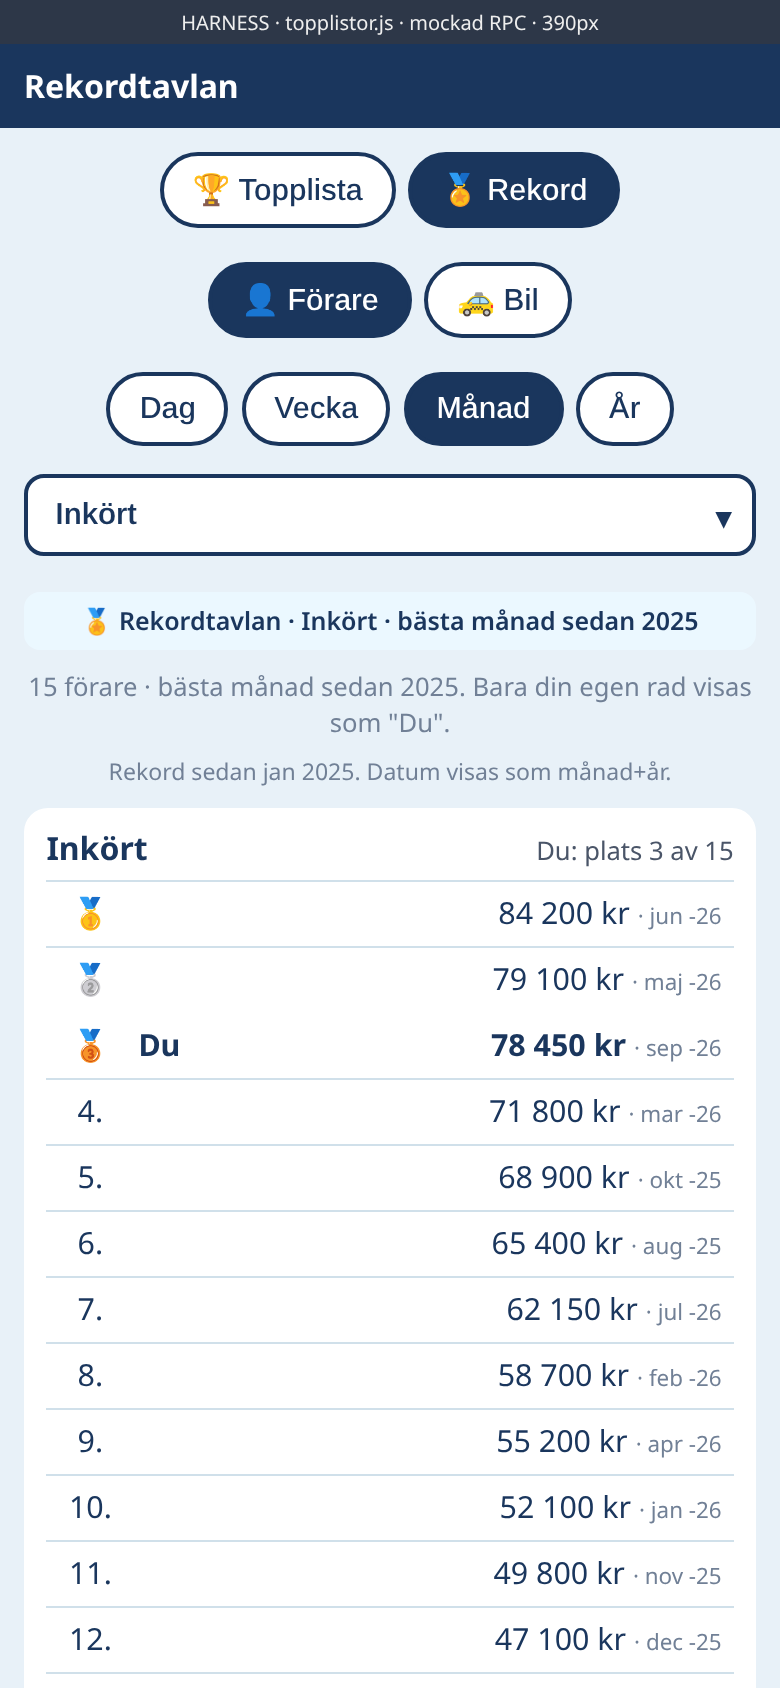
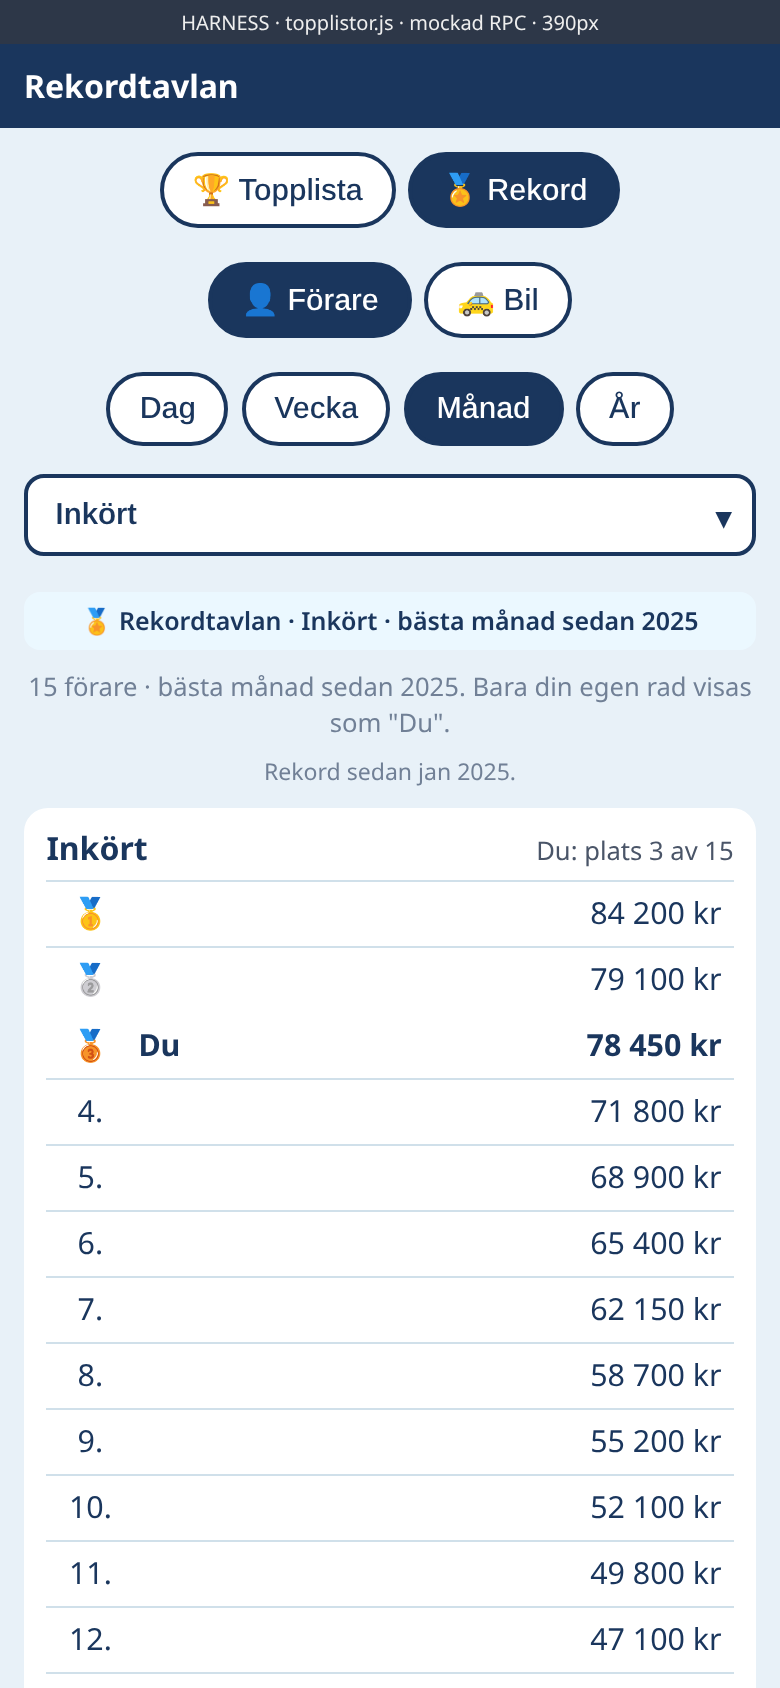
Topplistor: korta måttnamn, rekord utan datum
Km/körning, Kr/körning, Belopp/körning, Körningar/pass m.fl.
RPC returnerar inte perioddatum på rekord.

diff --git a/TaxiData/topplistor.js b/TaxiData/topplistor.js
@@ -18,13 +18,13 @@
     { k: 'krtimme', t: 'Kr/timme', f: 'kr', group: 'sum' },
     { k: 'km', t: 'Km', f: 'km', group: 'sum' },
     { k: 'antal', t: 'Antal resor', f: 'st', group: 'sum' },
-    { k: 'snitt', t: 'Snitt per körning', f: 'kr', group: 'sum' },
-    { k: 'inkort_pass', t: 'Inkört per pass', f: 'kr', group: 'sum' },
-    { k: 'dricks_pct', t: 'Dricks i % av inkört', f: 'pct', group: 'sum' },
+    { k: 'snitt', t: 'Kr/körning', f: 'kr', group: 'sum' },
+    { k: 'inkort_pass', t: 'Kr/pass', f: 'kr', group: 'sum' },
+    { k: 'dricks_pct', t: 'Dricks %', f: 'pct', group: 'sum' },
     { k: 'flyg', t: 'Flygresor', f: 'st', group: 'sum' },
-    { k: 'langst', t: 'Längsta körningen', f: 'km1', group: 'trip' },
-    { k: 'belopp', t: 'Högsta enskilda belopp', f: 'kr', group: 'trip' },
-    { k: 'passresor', t: 'Flest körningar per pass', f: 'st', group: 'trip' }
+    { k: 'langst', t: 'Km/körning', f: 'km1', group: 'trip' },
+    { k: 'belopp', t: 'Belopp/körning', f: 'kr', group: 'trip' },
+    { k: 'passresor', t: 'Körningar/pass', f: 'st', group: 'trip' }
   ];
   T.lists = LISTS;
   var BY_K = {};
@@ -239,7 +239,7 @@
 
   function metricSub(L) {
     if (st.view === 'rekord') {
-      if (L.group === 'trip') return 'bästa enskilda sedan 2025';
+      if (L.group === 'trip') return 'sedan 2025';
       return 'bästa ' + (GRAIN_SV[st.tab === 'period' ? 'manad' : st.tab] || 'period') + ' sedan 2025';
     }
     return L.group === 'trip' ? 'i vald period' : 'vald period';
@@ -334,15 +334,14 @@
             ? (r.namn && r.namn !== r.id ? esc(sn(r.namn)) + ' <span class="tl-id">' + esc(r.id) + '</span>' : esc(r.id))
             : (window.DEMO && DEMO.on() ? 'Förare ' + r.pos : ''));
         }
-        var when = r.when ? '<span class="tl-when">· ' + esc(r.when) + '</span>' : '';
         h += '<div class="tl-row' + (r.du ? ' du' : '') + '"><span class="tl-pos">' +
           (r.pos <= 3 ? ['🥇', '🥈', '🥉'][r.pos - 1] : r.pos + '.') + '</span>' +
-          '<span class="tl-who">' + who + '</span><span class="tl-val">' + fmt(r.v, L.f) + when + '</span></div>';
+          '<span class="tl-who">' + who + '</span><span class="tl-val">' + fmt(r.v, L.f) + '</span></div>';
       });
       h += '</div>';
       h += '<div class="tl-foot">Kr/mil kräver minst 1 mil, kr/timme minst 30 min. Inkört som i Körpassdata. ' +
-        (rek && L.k === 'snitt' && d.min_trips ? 'Snitt i rekord kräver minst ' + d.min_trips + ' resor. ' : '') +
-        'Listan är sorterad störst först — läs nerifrån för minst. Längsta körningen: minst 0,5 km (botten = kortaste).</div>';
+        (rek && L.k === 'snitt' && d.min_trips ? 'Kr/körning i rekord kräver minst ' + d.min_trips + ' resor. ' : '') +
+        'Störst först — läs nerifrån för minst. Km/körning: minst 0,5 km.</div>';
     }
     body.innerHTML = h;
   }

diff --git a/docs/topplistor/harness.html b/docs/topplistor/harness.html
@@ -40,20 +40,14 @@
     return vals.map(function (v, i) { return {pos:i+1,v:v,du:i===2}; });
   }
   function rowsRekord(grain) {
-    var when = grain === 'dag'
-      ? ['jun -26','maj -25','sep -26','aug -26','mar -26','okt -25','jul -26','apr -26','feb -26','jan -26','nov -25','dec -25','okt -26','sep -25','jul -25']
-      : ['jun -26','maj -26','sep -26','mar -26','okt -25','aug -25','jul -26','feb -26','apr -26','jan -26','nov -25','dec -25','maj -25','mar -25','aug -26'];
     var vals = grain === 'dag'
       ? [9840,9210,8760,8450,8100,7890,7650,7420,7100,6880,6650,6420,6190,5950,5710]
       : [84200,79100,78450,71800,68900,65400,62150,58700,55200,52100,49800,47100,44500,41800,39200];
-    return vals.map(function (v, i) {
-      return {pos:i+1,v:v,du:i===2,when:when[i]};
-    });
+    return vals.map(function (v, i) { return {pos:i+1,v:v,du:i===2}; });
   }
   function rowsLangst() {
     var vals = [86.4,72.1,61.0,48.5,39.2,28.7,19.4,12.8,8.3,5.1,3.2,2.0,1.4,0.9,0.6];
-    var when = ['jun -26','maj -26','sep -26','mar -26','okt -25','aug -25','jul -26','feb -26','apr -26','jan -26','nov -25','dec -25','mar -25','maj -25','aug -26'];
-    return vals.map(function (v, i) { return {pos:i+1,v:v,du:i===2,when:when[i]}; });
+    return vals.map(function (v, i) { return {pos:i+1,v:v,du:i===2}; });
   }
 
   var origFetch = window.fetch;
@@ -81,11 +75,10 @@
       return Promise.resolve({ ok: true, json: function () {
         return Promise.resolve({
           view:'rekord', metric:metric, sort:sort, entity:'forare', grain:grain,
-          since:'2025-01-01', named:false, n:15, privacy_when:'month_year',
-          min_trips: metric==='snitt' ? (grain==='dag'?5:grain==='vecka'?15:grain==='manad'?20:100) : null,
-          me:{pos:3,v:r[2].v,when:r[2].when},
+          since:'2025-01-01', named:false, n:15, min_trips: metric==='snitt' ? (grain==='dag'?5:grain==='vecka'?15:grain==='manad'?20:100) : null,
+          me:{pos:3,v:r[2].v},
           rows:r,
-          note:'Rekord sedan jan 2025. Datum visas som månad+år.'
+          note:'Rekord sedan jan 2025.'
         });
       }});
     }

diff --git a/TaxiData/index.html b/TaxiData/index.html
@@ -151,7 +151,7 @@
   <script src="ankomster.js?v=20261105kh1"></script>
   <script src="bevakning.js?v=20261028v"></script>
   <script src="tagnotis.js?v=20261029tn"></script>
-  <script src="topplistor.js?v=20261106rekord2"></script>
+  <script src="topplistor.js?v=20261106rekord3"></script>
   <script src="sjuk.js?v=20261030sj4"></script>
   <script src="verkstad.js?v=20261029sj1"></script>
   <script src="kalender.js?v=20261104ar1"></script>

diff --git a/docs/topplistor/README.md b/docs/topplistor/README.md
@@ -12,10 +12,10 @@ Branch: `feat/topplistor-rekord` · Backup: `backup/pre-rekord-20261106` (= main
 - Anonym ranking; egen rad som "Du: plats X av N".
 - Bil: vanliga förare ser bara egen bil (samma regel som idag).
 
-### Rekord-datum (integritetsval)
-Datum på rekord visas som **månad + år** (t.ex. `sep -26`), även när grain är Dag eller Vecka. Motivering: ~29 förare — exakt dag kan identifiera personen. Flaggat här och i RPC-fältet `privacy_when: month_year`.
+### Rekord utan datum
+Rekordlistan visar **bara värde och placering** — ingen månad/dag. RPC returnerar inte perioddatum (integritet).
 
-## Mått
+## Mått (korta namn)
 | Nyckel | Rubrik | Kommentar |
 |--------|--------|-----------|
 | inkort | Inkört | |
@@ -24,19 +24,20 @@ Datum på rekord visas som **månad + år** (t.ex. `sep -26`), även när grain 
 | krtimme | Kr/timme | ≥ 30 min |
 | km | Km | pass-km |
 | antal | Antal resor | |
-| snitt | Snitt per körning | Rekord: minsta antal resor (se trösklar) |
-| inkort_pass | Inkört per pass | |
-| dricks_pct | Dricks i % av inkört | inkört ≥ 100 kr |
+| snitt | Kr/körning | snitt; Rekord: minsta antal resor (trösklar) |
+| inkort_pass | Kr/pass | snitt inkört per pass |
+| dricks_pct | Dricks % | inkört ≥ 100 kr |
 | flyg | Flygresor | start- eller slutzon 291–293 |
-| langst | Längsta körningen | ≥ 0,5 km; botten av listan = kortaste |
-| belopp | Högsta enskilda belopp | enskild resa |
-| passresor | Flest körningar per pass | enskilt pass |
+| langst | Km/körning | enskild resa, ≥ 0,5 km; botten = kortaste |
+| belopp | Belopp/körning | enskild resa (skilt från Kr/körning = snitt) |
+| passresor | Körningar/pass | enskilt pass |
 
 ### Borttaget / utelämnat
 - **Timmar** — Berra vill inte uppmuntra långa pass.
 - **Verkstadstimmar** — ingen historik i arkivet.
-- **Högst snitt per pass** — ersatt av Inkört per pass.
-- **Andel tomkörning** — STIG-data har inget tomkm-/ledig-fält (bara `kilometer` på resa och `km` på pass). Utelämnad.
+- **Högst snitt per pass** — ersatt av Kr/pass.
+- **Andel tomkörning** — STIG-data har inget tomkm-/ledig-fält. Utelämnad.
+- Sorteringsknappar Störst/Minst — alltid störst först, hela listan.
 
 ### Trösklar (snitt i Rekord)
 | Grain | Minsta antal resor |
@@ -69,4 +70,4 @@ Datum på rekord visas som **månad + år** (t.ex. `sep -26`), även när grain 
 
 ## Skärmdumpar
 - Harness: `docs/topplistor/harness.html` (eller `/workspace/taxidata-cleanup/harness/rekord/`)
-- Bilder v2 (utan sorteringsknappar, full lista): `/workspace/taxidata-cleanup/screenshots/rekord/v2/` och `docs/topplistor/real/`
+- Bilder v3: `/workspace/taxidata-cleanup/screenshots/rekord/v3/` och `docs/topplistor/real/`
